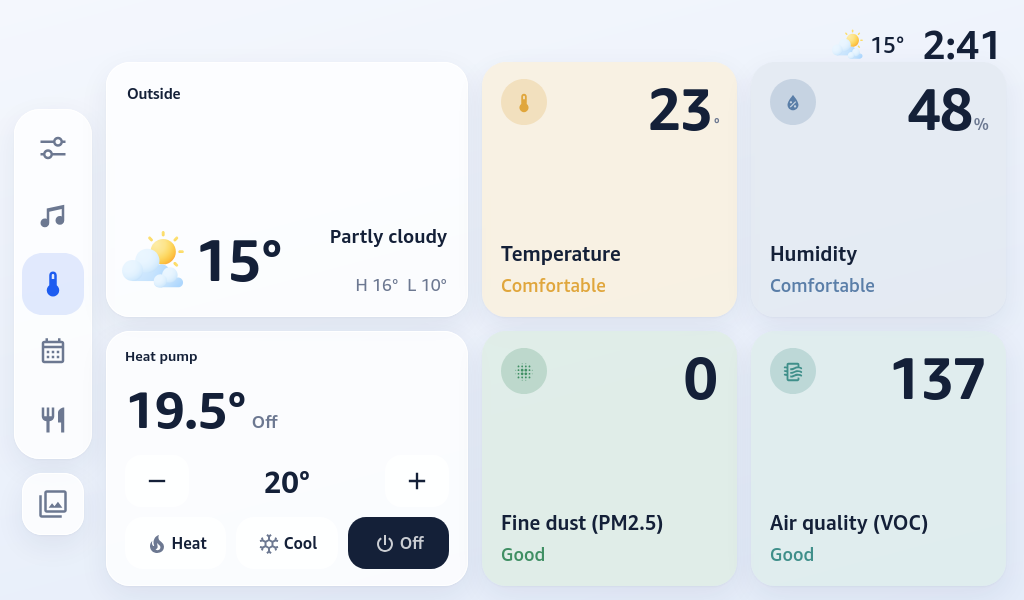
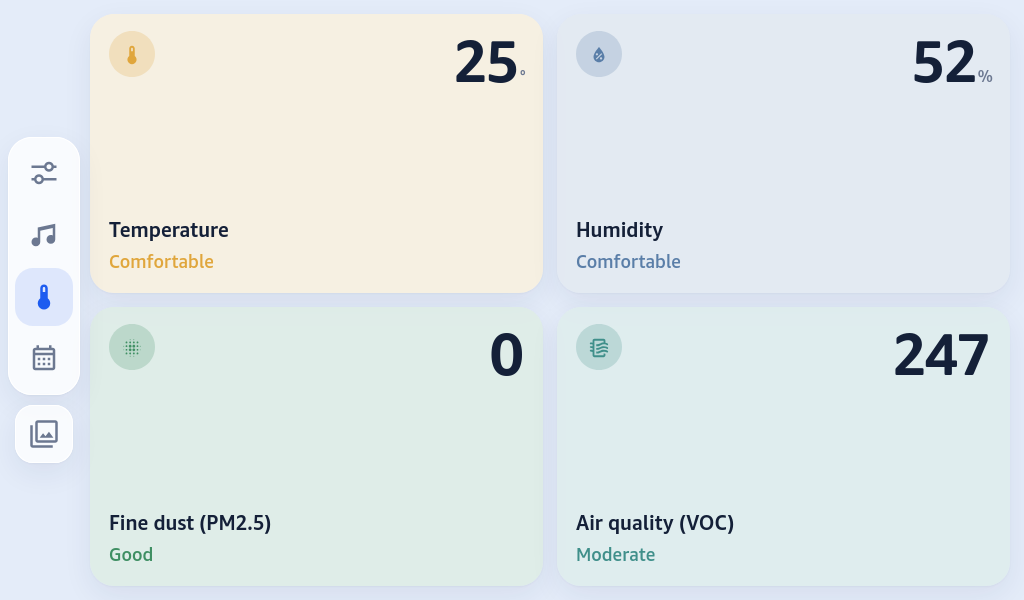
Hub Show is now the Echo layout with kitchen entities
The Nest Hub dashboard (ha-show-hub) is built from Meridian screen
cards in HA's editor, like the bedroom Echo: Controls, Media, Climate
and Calendar behind the dock, photos when idle. showhub.py is retired
and deploy.py no longer writes ha-show-hub.

The cast keep-alive now casts the controls view and accepts any
"Hub Show:" page, so swiping between pages is not undone.

diff --git a/deploy.py b/deploy.py
@@ -2,8 +2,8 @@
 """Build and deploy the Overlook dashboards to Home Assistant.
 
     ./deploy.py --list                      what is on the box
-    ./deploy.py show showhub                rebuild those two from the generators
-    ./deploy.py --dry-run showhub           build and diff, write nothing
+    ./deploy.py show                        ship the card, rebuild Kitchen Show
+    ./deploy.py --dry-run show              build and diff, write nothing
 
 Every Show dashboard first ships the card (www/overlook-show.js) and its artwork, then
 saves its config. ha-show-native is the exception: once it has been edited in HA's own
@@ -20,7 +20,6 @@ TOKEN_FILE = os.environ.get("HA_TOKEN_FILE", "~/.config/ha/token")
 TARGETS = {           # name -> (url_path, title, icon)
     "show":     ("ha-show",     "Kitchen Show", "mdi:tablet-dashboard"),
     "shownative": ("ha-show-native", "Phone Show", "mdi:cellphone-cog"),
-    "showhub": ("ha-show-hub", "Hub Show", "mdi:monitor-speaker"),
 }
 # edited in HA's own editor: deploy writes their layout only until that happens
 NATIVE = ("shownative",)

diff --git a/docs/DASHBOARDS.md b/docs/DASHBOARDS.md
@@ -22,7 +22,6 @@ More screenshots in the [README](../README.md).
 | `www/weather/*.svg` | weather icons, drawn by `tools/weather_icons.py` (edit that, not the SVGs) |
 | `www/fonts/ember.css` | `@font-face` rules for Amazon Ember. The font files live only on HA in `/config/www/fonts/amazon-ember/` (README, Fonts). The card loads the same faces itself (`FONT_FACES`) |
 | `show.py` | Kitchen Show (`ha-show`): `VERSION`, and `CARD`, the shared config: rooms, scenes, status pills, calendars, recipes. The other dashboards start from `show.CARD` |
-| `showhub.py` | Hub Show (`ha-show-hub`) for the Nest Hub (1024x600, cast): `hub` mode. Photos are home; the dock opens Controls, Media, Climate, Calendar and Recipes. Kept alive by `ha_config/kitchen_cast_keepalive.json` |
 | `showphone.py` | the phone's data, no dashboard of its own: rooms and scenes (`ROOMS`, `SCENES`), the reading pills (`STATUS_AIR`), the pop-ups (`POPUPS`) and which tap opens which (`LINKS`). `shownative.py` reads it |
 | `shownative.py` | Phone Show (`ha-show-native`): the same rooms, scenes and pop-ups as ordinary HA cards in a sections view (see below) |
 | `tools/norish_sync.py` | copies Norish recipes into HA every 30 min (systemd timer on luna) |
@@ -43,12 +42,12 @@ kitchen tablet.
    Skip this and browsers keep the old JS cached, so the change looks like it didn't work.
 3. Deploy:
    ```sh
-   ./deploy.py show showhub shownative
+   ./deploy.py show shownative
    ```
    This builds the Show card (and `dist/meridian.js` for HACS), copies the card and
    artwork to `/config/www` over SSH, points the resource at the new
-   version and rewrites the dashboards. ha-show and ha-show-hub
-   hold no UI edits, so their config lives in the Python; ha-show-native is
+   version and rewrites the dashboards. ha-show
+   holds no UI edits, so its config lives in the Python; ha-show-native is
    only rewritten while nobody has edited it in HA.
 4. **Reload the devices that keep the page open.** The Echo needs its View Assist Companion
    app restarted (`docs/tasks/echo-show-bedroom.md`). The Nest Hub needs the cast dropped and
@@ -56,7 +55,7 @@ kitchen tablet.
    view does not reload it.
 5. Check **every** dashboard, even if you only meant to change one. They share the file:
    - Kitchen Show `/ha-show/show` at 1280x800
-   - Hub Show `/ha-show-hub/show` at 1024x600, every dock page
+   - Hub Show `/ha-show-hub/controls` at 1024x600, every dock page (Meridian screen cards, edited in HA, not by deploy.py)
    - Master Bedroom Echo Show `/master-bedroom-echo-show/controls` at 788x394, every dock page (Meridian screen cards, edited in HA, not by deploy.py)
    - Computer Show `/ha-show-computer/home` at 1920x1080, sidebar open (Meridian cards, edited in HA, not by deploy.py)
    - Phone Show `/ha-show-native/home` at 390 wide

diff --git a/README.md b/README.md
@@ -15,7 +15,7 @@ Python files say which entities go where on each screen.
 | dashboard | screen | layout |
 |---|---|---|
 | **Kitchen Show** `ha-show` | 8" kitchen tablet, 1280x800 | dock on the left, date, favourites, calendar and shopping list; idles to photos |
-| **Hub Show** `ha-show-hub` | Nest Hub, 1024x600, cast | photos are home; Controls, Media, Climate, Calendar and Recipes behind the dock |
+| **Hub Show** `ha-show-hub` | Nest Hub, 1024x600, cast | the Echo Show layout for the kitchen, built from Meridian screen cards in HA's editor: photos when idle, kitchen lights, the kitchen HomePod, the kitchen air monitor, calendar |
 | **Master Bedroom Echo Show** `master-bedroom-echo-show` | Echo Show 5, 788x394 | built from the Meridian screen cards in HA's editor: photos and a clock, bedroom controls, red night clock, voice timers and alarms |
 | **Computer Show** `ha-show-computer` | 1920x1080, beside HA's sidebar | the whole house on one page, built from Meridian cards in HA's editor: large weather, heat pump and speaker tiles, 2x tiles under each room heading |
 | **Phone Show** `ha-show-native` | 390 wide | ordinary HA sections built from Meridian cards, so HA's own editor works |
@@ -43,7 +43,6 @@ Norish, synced into HA every 30 minutes.
 ![Kitchen Show, Recipes](docs/images/kitchen-show-recipes.png)
 
 ## Hub Show
-![Hub Show, photos](docs/images/hub-photos.png)
 <p>
   <img src="docs/images/hub-controls.png" width="49%" alt="Hub Show, Controls">
   <img src="docs/images/hub-climate.png" width="49%" alt="Hub Show, Climate">
@@ -156,8 +155,8 @@ HA's static files already allow `cast.home-assistant.io`, so nothing else is nee
 
 ```sh
 ./deploy.py --list                       # what is on the box
-./deploy.py show showhub                 # ship the card, save those dashboards
-./deploy.py --dry-run showhub            # build and diff, write nothing
+./deploy.py show                         # ship the card, save Kitchen Show
+./deploy.py --dry-run show               # build and diff, write nothing
 ```
 
 `HA_HOST` and `HA_TOKEN_FILE` override the defaults. Bump `VERSION` in both `show.py` and
@@ -176,7 +175,6 @@ hacs.json              HACS manifest
 www/weather/           weather icons (drawn by tools/weather_icons.py)
 www/fonts/ember.css    @font-face rules for Amazon Ember (the font files are not in the repo)
 show.py                Kitchen Show and the shared CARD config, VERSION
-showhub.py             Hub Show
 showphone.py           the phone's rooms, scenes and pop-ups (data only)
 shownative.py          Phone Show, as native HA sections
 deploy.py  ha_ws.py    CLI and a minimal websocket client

diff --git a/docs/LIVE.md b/docs/LIVE.md
@@ -62,9 +62,11 @@ deploy them.
 **Kitchen Show** `ha-show` (`show.py`, 1280x800)
 - For the ALLDOCUBE 8" tablet, which hasn't arrived yet. Until then it is used in a browser.
 
-**Hub Show** `ha-show-hub` (`showhub.py`, Nest Hub 1st gen, 1024x600, cast)
+**Hub Show** `ha-show-hub` (Nest Hub 1st gen, 1024x600, cast): Meridian screen cards, edited in HA. Since 2026-11-10 it is the Echo dashboard's layout with kitchen entities (Controls, Media, Climate, Calendar); the old `showhub.py` layout is backed up at `~/.config/ha/ha-show-hub.before-kitchen-2026-11-10.json`
 - `automation.kitchen_display_keep_the_cast_alive` (`ha_config/kitchen_cast_keepalive.json`)
-  casts `ha-show-hub/show` every 2 minutes while the Hub is idle or showing something else.
+  casts `ha-show-hub/controls` every 2 minutes while the Hub is idle or showing something
+  other than a `Hub Show:` page. While the Hub shows any dashboard its state is `playing`, so
+  it will not pull the Hub off another HA dashboard; only a dropped cast is fixed.
 - To reload it after a card change: `media_player.turn_off` the Hub, wait, then
   `cast.show_lovelace_view`. Casting the same view again does not reload the page.
 - **Never use a card that loads images by relative URL here.** The cast receiver runs at

diff --git a/AGENTS.md b/AGENTS.md
@@ -19,7 +19,7 @@ build the dashboard in HA's own editor. Nothing below is needed for that.
 |---|---|---|
 | `show.py` | Yes: `CARD` holds every entity, room, scene, pill, calendar | Yes, heavily |
 | `showphone.py` | Yes: the phone's rooms, scenes, pop-ups and links | Yes |
-| `showhub.py` `shownative.py` | Yes, lightly: which room, which page | Yes |
+| `shownative.py` | Yes, lightly: which room, which page | Yes |
 | `www/overlook-show.js` | Mostly no: layouts and behaviour | Only for a new *kind* of thing |
 | `deploy.py` `ha_ws.py` | No | `HOST` and the SSH key path |
 

diff --git a/docs/tasks/paget-spotify.md b/docs/tasks/paget-spotify.md
@@ -109,7 +109,7 @@ An agent cannot do these. Wait until Cameron says all three are done.
 ## Step 5: deploy
 
 - Bump `VERSION` in `show.py` and `www/overlook-show.js`, then
-  `./deploy.py show showhub shownative` (see `docs/DASHBOARDS.md`).
+  `./deploy.py show shownative` (see `docs/DASHBOARDS.md`).
 - Reload the Nest Hub's cast so it picks up the new card.
 
 ## Verify by using it, not by screenshot
